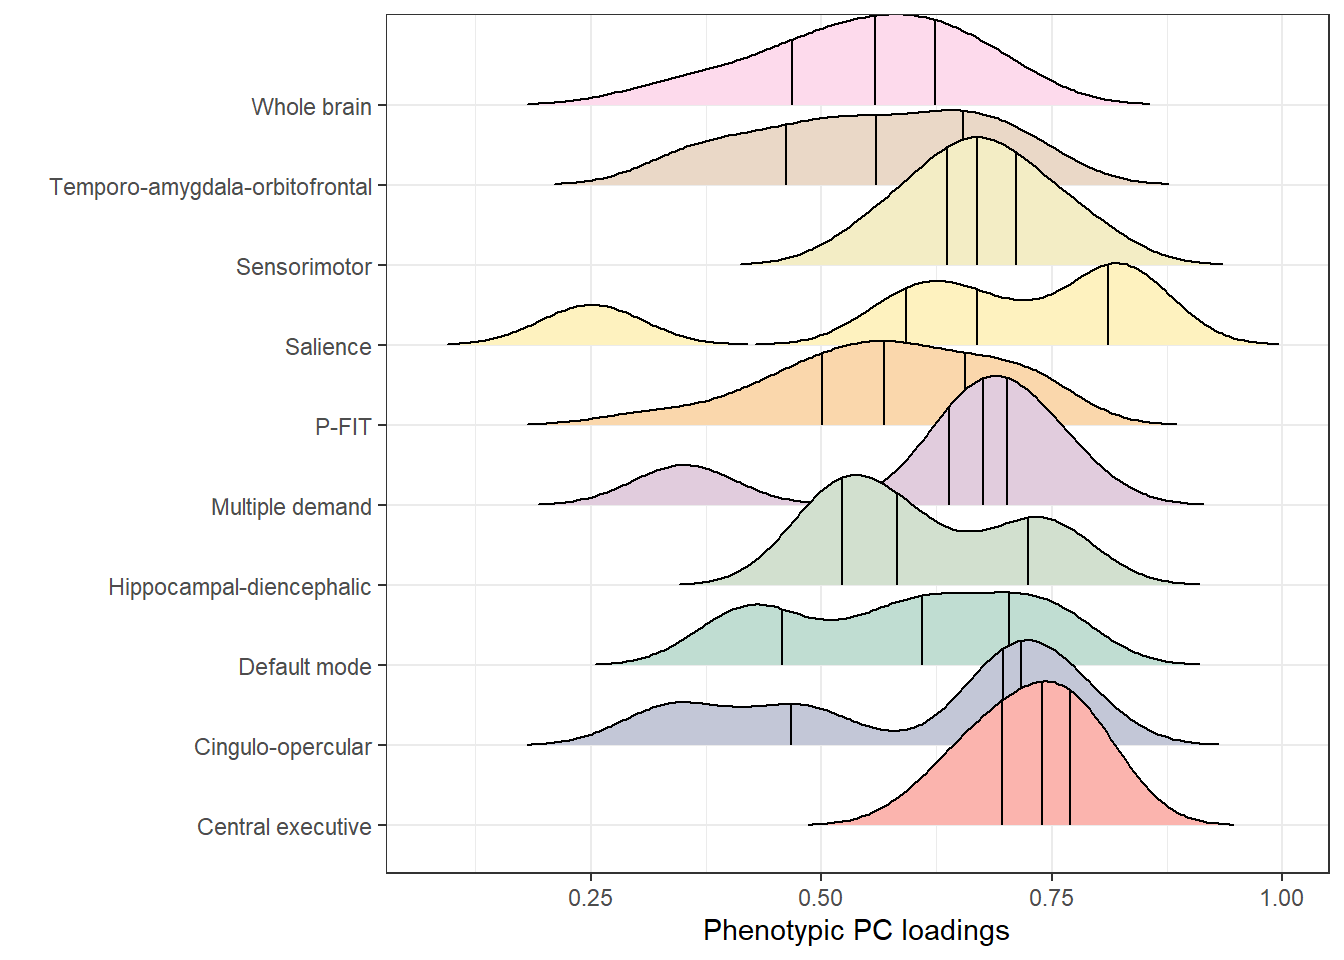
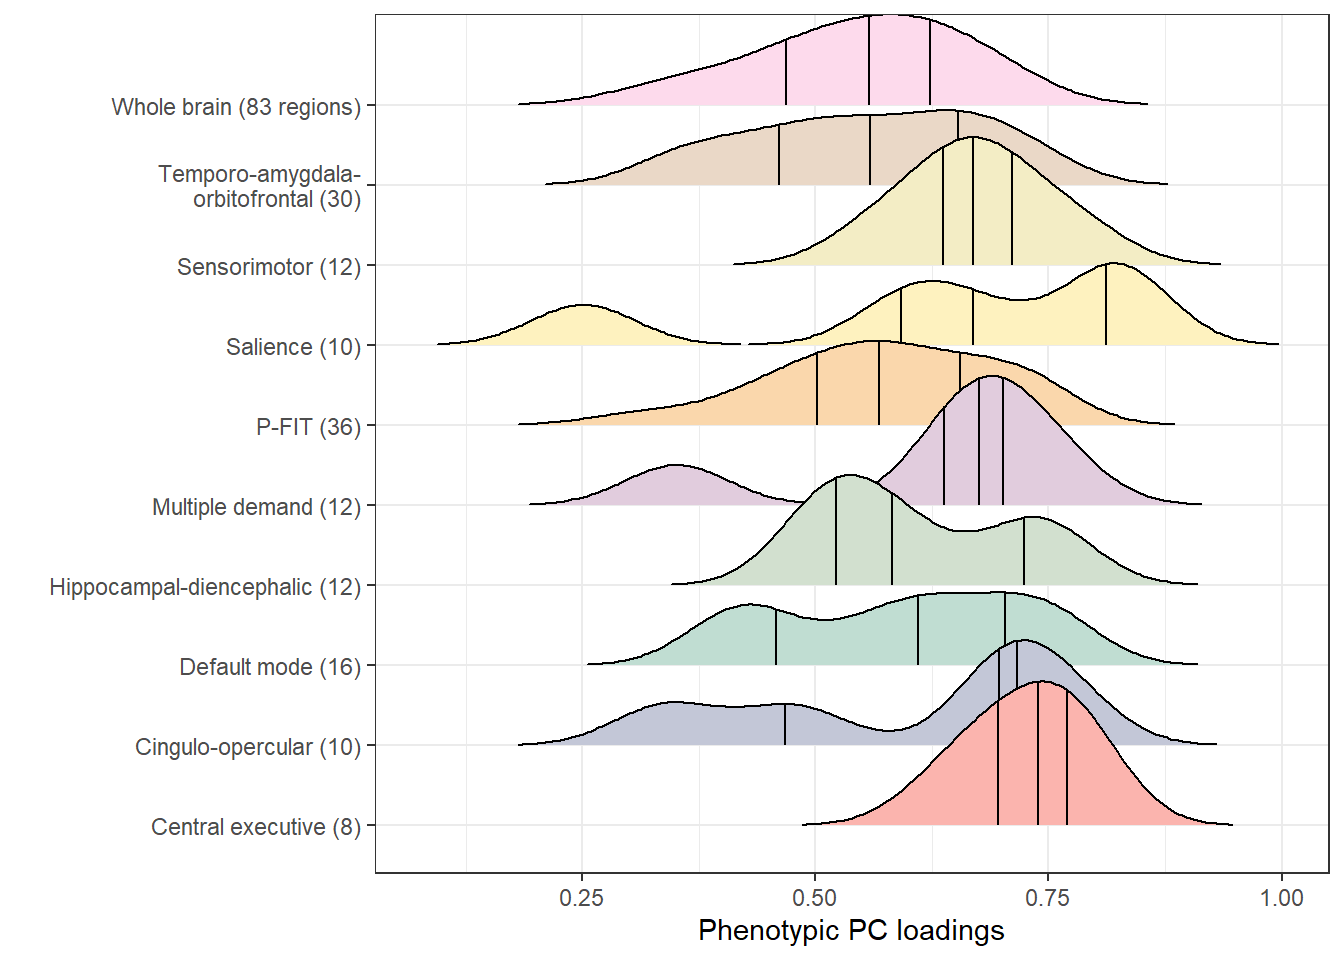
update_figure

diff --git a/Descriptive_stats.html b/Descriptive_stats.html
@@ -621,16 +621,16 @@ for(i in loadings_pheno){
 data_pheno&lt;-data_pheno[-1,]
 
 # print full names for networks
-data_pheno$network[which(data_pheno$network == &quot;temporo&quot;)]&lt;-&quot;Temporo-amygdala-orbitofrontal&quot;
-data_pheno$network[which(data_pheno$network == &quot;sensori&quot;)]&lt;-&quot;Sensorimotor&quot;
-data_pheno$network[which(data_pheno$network == &quot;salience&quot;)]&lt;-&quot;Salience&quot;
-data_pheno$network[which(data_pheno$network == &quot;p_fit&quot;)]&lt;-&quot;P-FIT&quot;
-data_pheno$network[which(data_pheno$network == &quot;multiple_demand&quot;)]&lt;-&quot;Multiple demand&quot;
-data_pheno$network[which(data_pheno$network == &quot;hippocampal&quot;)]&lt;-&quot;Hippocampal-diencephalic&quot;
-data_pheno$network[which(data_pheno$network == &quot;default&quot;)]&lt;-&quot;Default mode&quot;
-data_pheno$network[which(data_pheno$network == &quot;cingulo&quot;)]&lt;-&quot;Cingulo-opercular&quot;
-data_pheno$network[which(data_pheno$network == &quot;central_exec&quot;)]&lt;-&quot;Central executive&quot;
-data_pheno$network[which(data_pheno$network == &quot;whole_brain&quot;)]&lt;-&quot;Whole brain&quot;
+data_pheno$network[which(data_pheno$network == &quot;temporo&quot;)]&lt;-&quot;Temporo-amygdala-\norbitofrontal (30)&quot;
+data_pheno$network[which(data_pheno$network == &quot;sensori&quot;)]&lt;-&quot;Sensorimotor (12)&quot;
+data_pheno$network[which(data_pheno$network == &quot;salience&quot;)]&lt;-&quot;Salience (10)&quot;
+data_pheno$network[which(data_pheno$network == &quot;p_fit&quot;)]&lt;-&quot;P-FIT (36)&quot;
+data_pheno$network[which(data_pheno$network == &quot;multiple_demand&quot;)]&lt;-&quot;Multiple demand (12)&quot;
+data_pheno$network[which(data_pheno$network == &quot;hippocampal&quot;)]&lt;-&quot;Hippocampal-diencephalic (12)&quot;
+data_pheno$network[which(data_pheno$network == &quot;default&quot;)]&lt;-&quot;Default mode (16)&quot;
+data_pheno$network[which(data_pheno$network == &quot;cingulo&quot;)]&lt;-&quot;Cingulo-opercular (10)&quot;
+data_pheno$network[which(data_pheno$network == &quot;central_exec&quot;)]&lt;-&quot;Central executive (8)&quot;
+data_pheno$network[which(data_pheno$network == &quot;whole_brain&quot;)]&lt;-&quot;Whole brain (83 regions)&quot;
 
 # adjust data structure
 data_pheno$network&lt;-as.factor(data_pheno$network)
@@ -1027,7 +1027,7 @@ loadings_plot &lt;- loadings_plot + theme(axis.text.y = element_blank())</code><
 <h2>Plot explained variances</h2>
 <pre class="r"><code># save genetic descriptives to be plotted in a new data.frame
 descriptives_geno &lt;- table[,c(&quot;networks&quot;,&quot;explained&quot;)]
-names(descriptives_geno)[which(names(descriptives_geno) == &quot;explained&quot;)] &lt;- &quot;geno_R2&quot;
+names(descriptives_geno)[which(names(descriptives_geno) == &quot;explained&quot;)] &lt;- &quot;Genotype&quot;
 
 # rename networks so they match phenotypic names
 descriptives_geno$networks[which(descriptives_geno$networks == &quot;default_mode&quot;)]&lt;-&quot;default&quot;
@@ -1036,6 +1036,8 @@ descriptives_geno$networks[which(descriptives_geno$networks == &quot;multiple&qu
 
 # merge pheno and geno descriptive stats
 descriptives &lt;- merge(descriptives_pheno, descriptives_geno, by = &quot;networks&quot;)
+names(descriptives)[which(names(descriptives) == &quot;pheno_R2&quot;)] &lt;- &quot;Phenotype&quot;
+
 
 # re-name the networks with how you want it to appear in the plot
 descriptives$networks[which(descriptives$networks == &quot;temporo&quot;)]&lt;-&quot;Temporo-amygdala-orbitofrontal&quot;
@@ -1050,15 +1052,16 @@ descriptives$networks[which(descriptives$networks == &quot;central_exec&quot;)]&
 descriptives$networks[which(descriptives$networks == &quot;whole_brain&quot;)]&lt;-&quot;Whole brain&quot;
 
 # round numbers for display
-descriptives$pheno_R2 &lt;- round(descriptives$pheno_R2, digits = 1)
-descriptives$geno_R2 &lt;- round(descriptives$geno_R2, digits = 1)
+descriptives$Phenotype &lt;- round(descriptives$Phenotype, digits = 1)
+descriptives$Genotype &lt;- round(descriptives$Genotype, digits = 1)
 
 # melt data frame to plot
 descriptives &lt;- reshape2::melt(descriptives)
 names(descriptives) &lt;- c(&quot;networks&quot;,&quot;Modality&quot;,&quot;R2&quot;)
 
 # choose  color
-mycolors &lt;- c(&quot;#D81B60&quot;,&quot;#1E88E5&quot;)
+mycolors &lt;- ifelse(descriptives$Modality == &quot;Phenotype&quot;, &quot;#ffd1dc&quot;,&quot;#77dd77&quot;)
+                   
 
 # create vector for labels
 library(dplyr)
@@ -1066,11 +1069,12 @@ labels &lt;- descriptives %&gt;% group_by(Modality) %&gt;% summarise(
             label_x=R2,
             label_y=networks)
 
-labels$label_position &lt;- ifelse(labels$Modality == &quot;pheno_R2&quot;, labels$label_x-13, labels$label_x+13)
+labels$label_position &lt;- ifelse(labels$Modality == &quot;Phenotype&quot;, labels$label_x-13, labels$label_x+13)
+
 
 R2_plot &lt;- ggplot(data=descriptives, aes(y=networks),shape=3)+
                             xlim(0,100)+
-                            geom_point(aes(x=R2, col = Modality), shape = 4, size=4, stroke = 2)+
+                            geom_point(aes(x=R2, fill = Modality), shape = 21, size=2, stroke = 1)+
                             labs(x = &quot;% variance explained by 1st PC&quot;, y = &quot;&quot;)+
                               theme_bw()+
                             geom_text(data = labels, aes(x=label_position, y=label_y, label=label_x), hjust = 0.5, vjust = 0.5, colour = &quot;gray&quot;)
